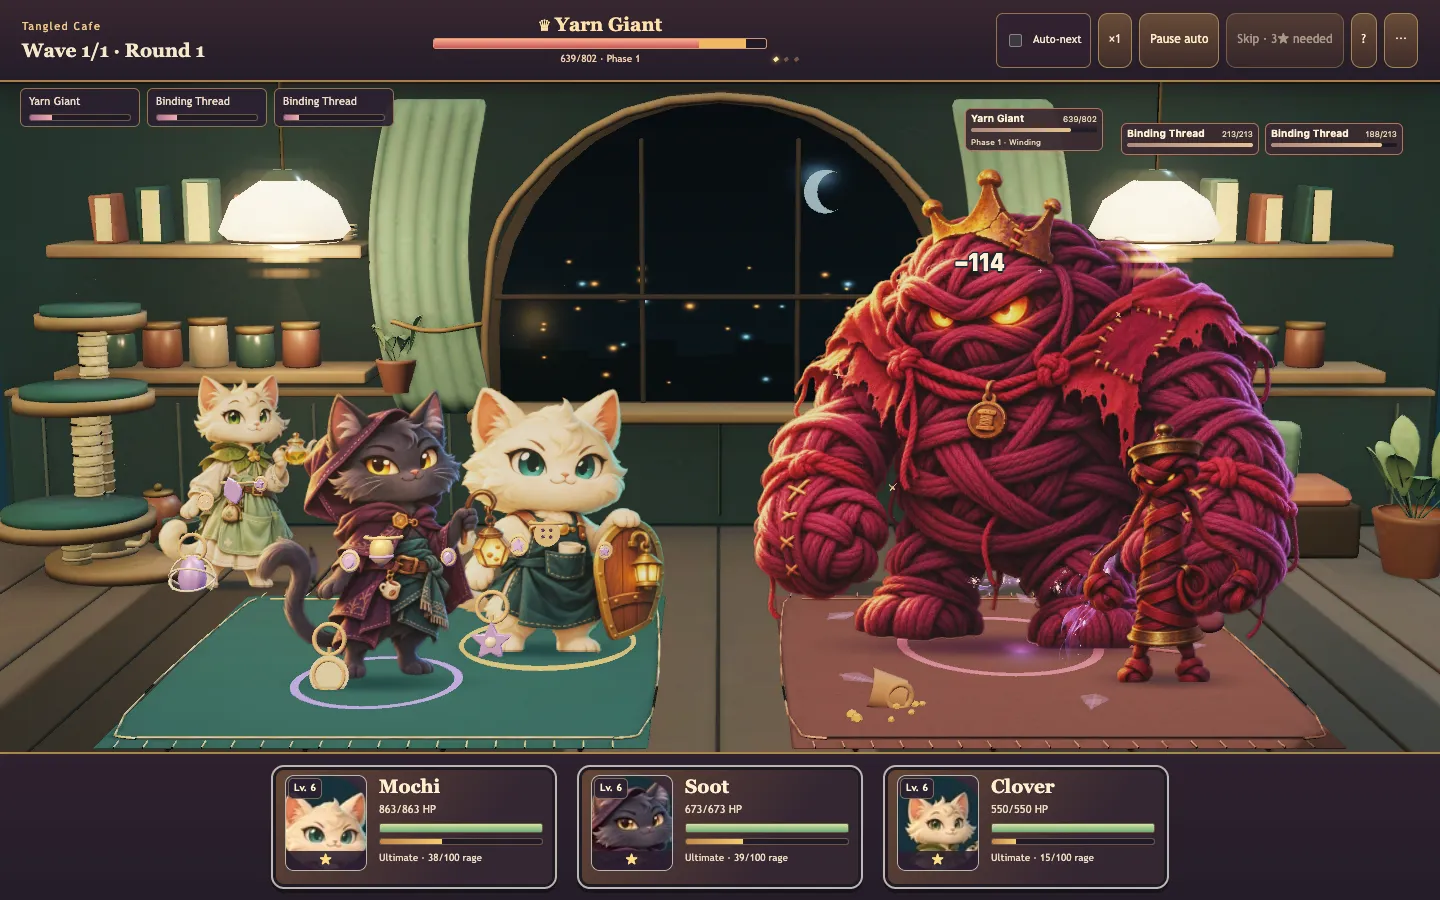
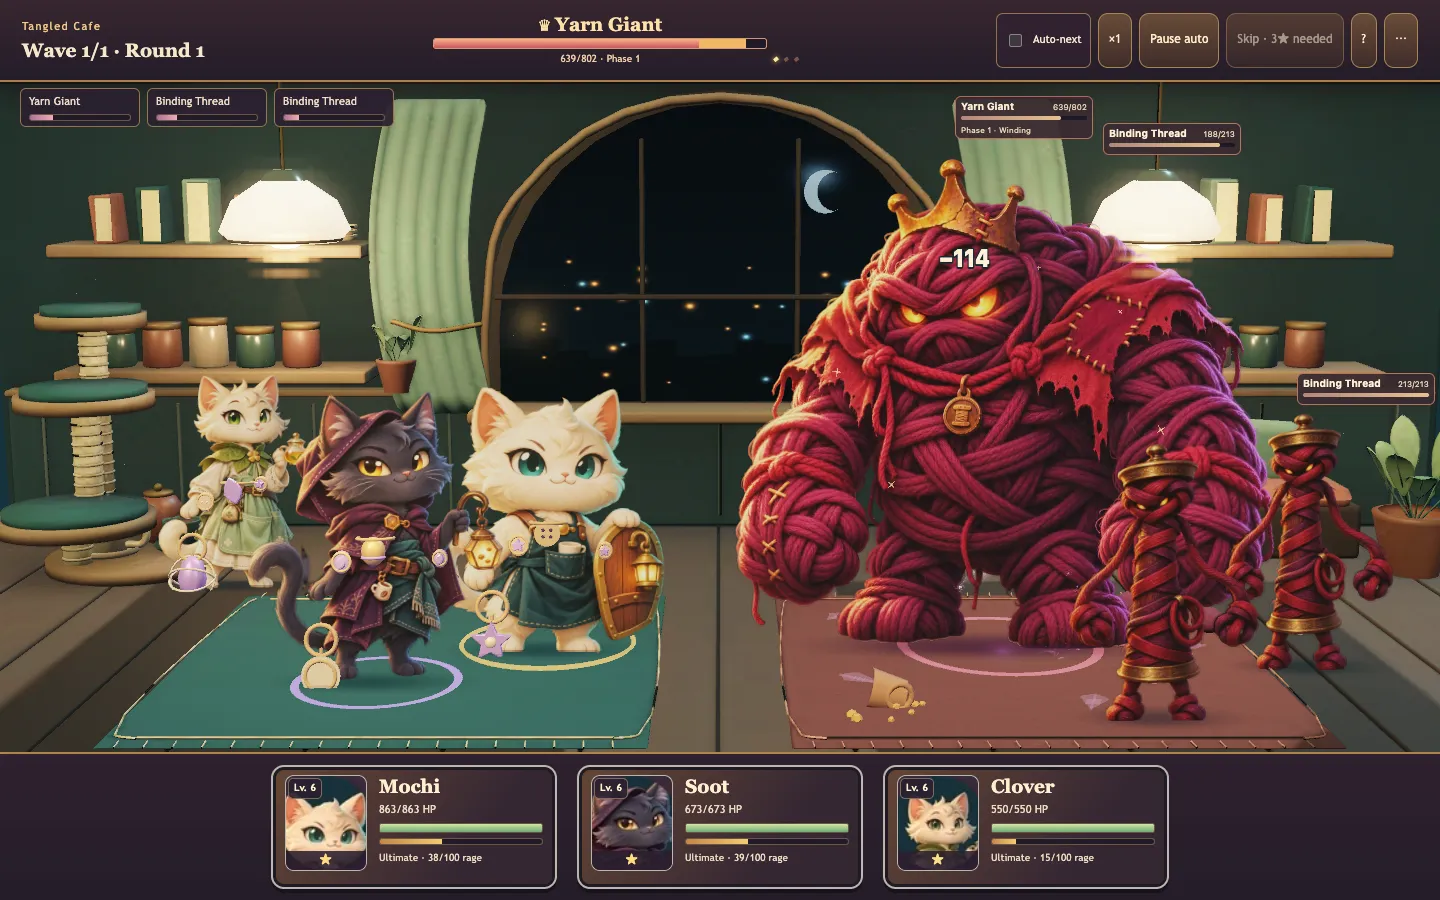
A6 Q14: publish three-add integration visibility evidence

Changed region(s): [[0.5, 0.0933, 1.0, 0.8089], [0.1562, 0.4356, 0.375, 0.7778]]

diff --git a/reports/cardrpg-a6/A6-OUTBOX.md b/reports/cardrpg-a6/A6-OUTBOX.md
@@ -28,3 +28,6 @@ Merged published B through296c8c036. Offline38,365,437B, zero HTTP(S) requests o
 
 ### A6 three-add phase3 case — 2026-11-10T19:07:50Z
 PublishedP13 ba680a44c now fetched; will merge after phase check. New real A6 threshold screenshots final-screens/1440-boss-phase3.webp and1280-boss-phase3.webp show THREE simultaneous live Binding Threads at phase3 (HP117,109,109), not only two. Current P13 slot%2 two-position map may overlap third+first. Please include this actual A6 boss state when extending visibility repair; do not change combat rules. Four phase screenshots prove top/world labels now agree1/2/3.
+
+### P13 integrated result — 2026-11-10T19:10:08Z
+Mergedba680a44c in7b23959ad. Two-add view is now clear (final-screens/1440-boss-battle.webp). **Third live add remains exactly overlapped with another** at A6phase3; screenshot final-screens/1440-boss-adds-phase3.webp shows3alive cards/world labels but only2silhouettes, plus one label displaced onto the floor. Existing A6 reproducer: tools/cardrpg-a6/final-screens.mjs --part=battle, normal auto boss seed7/chapter1/challenge6, Mochi/Soot/Clover level6 with4Epic slots each, skillsV5+gameplayA6. At round5HP218/802 there are3BindingThreads. Please assign unique visible positions for every live add (including3+) using a stable actor index/slot rather than slot%2; retain fullyauto rules and accepted boss scale/camera. No A6source change requested fromB.

diff --git a/reports/cardrpg-a6/QUEUE.md b/reports/cardrpg-a6/QUEUE.md
@@ -12,6 +12,8 @@
 - [ ] Q15 Final check (by 19 Nov 18:00 UTC): fresh seeds 60001-60500 once with the sim, full E2E, one real-click 30-minute run, screenshots of every screen at 1440x900 and 1280x720, one 60-90 s clip of a first session and one of a boss fight with ultimates.
 - [ ] Q16 Report (by 20 Nov 06:00 UTC): reports/cardrpg-a6/A6-REPORT.md (<= 2 pages: what a player gets now, before/after screenshots of home/recruit/map/battle, LOOK-SCORES summary, difficulty numbers, known issues), STATUS-VI.md summary, PR #438 description. Then improve the lowest LOOK-SCORES row until 20 Nov 12:00 UTC.
 
+Q14 current integration: B P13 merged; two-add view repaired. Three-live-add phase3 overlaps remain B-owned, requested with exact A6 fixture in A6-OUTBOX; continue independent Q15 work while awaiting published repair.
+
 Q13f completed under R-3 fallback: browser21wins/2losses,0errors/stalls; earliest loss6.59min and full-health normal wins remain explicit misses (Q13f.md). No fourth numeric tuning loop.
 
 ## Research refinements (2026-11-10; accepted rows stay complete)

diff --git a/reports/cardrpg-a6/FIXLOG.md b/reports/cardrpg-a6/FIXLOG.md
@@ -110,3 +110,5 @@
 - 2026-11-10T18:57:07Z Q14a visual repair: the new gear-card selector also matched the nested empty-state button, overriding its44px minimum with166/146px and pushing it below720p. Limit both viewport rules to direct gear-card buttons; add actual primary-action fold assertion to the existing capture tool.
 
 - 2026-11-10T19:05:24Z Q14 visual review found top boss Phase2 beside world label Phase1 at523/802HP. A6 first phase is a bonus flag; world label/scene bridge still read the legacy two-phase field. Use one displayedBossPhase adapter in both DOM labels and the existing scene input; no rules or B renderer change. Real threshold regression added; verification pending.
+
+- 2026-11-10T19:10:08Z Q14 B P13 improves the two-add view after merge7b23959ad. A6phase3 spawns a third live add; slot%2 places it over another. Confirmed from real automatic fixture, requestedB extension with exact reproducer/evidence. Keep bossvisibility provisional; continue independent Q15checks, no combat-rule workaround.

diff --git a/reports/cardrpg-a6/STATUS-VI.md b/reports/cardrpg-a6/STATUS-VI.md
@@ -79,3 +79,6 @@ Giữ nguyên43test/typecheck/lint đã đạt và mọi sửa đổi dở dang;
 2026-11-10T19:09:26Z: Q14a hoàn tất: Túi, Quà hằng ngày, Tháp và Relic có bố cục riêng; nút chính vừa cả hai cỡ màn.
 Đã giữ và xem 18 ảnh kiểm chứng, thao tác bàn phím bản đồ/nhận quà đạt; không thay điều kiện phần thưởng. Điểm tự đánh giá 7,8–8,1.
 Bản sửa lính phụ của B đã merge vào A6; đang kiểm tra trường hợp ba lính cùng sống và đóng gói lại.
+
+2026-11-10T19:10:08Z: Bản B mới đã tách rõ hai lính phụ. Ở pha 3, game A6 sinh thêm lính thứ ba và vẫn có hai hình chồng nhau; đã gửi bằng chứng/cách tái hiện trong A6-OUTBOX.
+Đang tiếp tục các kiểm tra Q15 độc lập; không đổi luật đánh để che lỗi hình ảnh.
